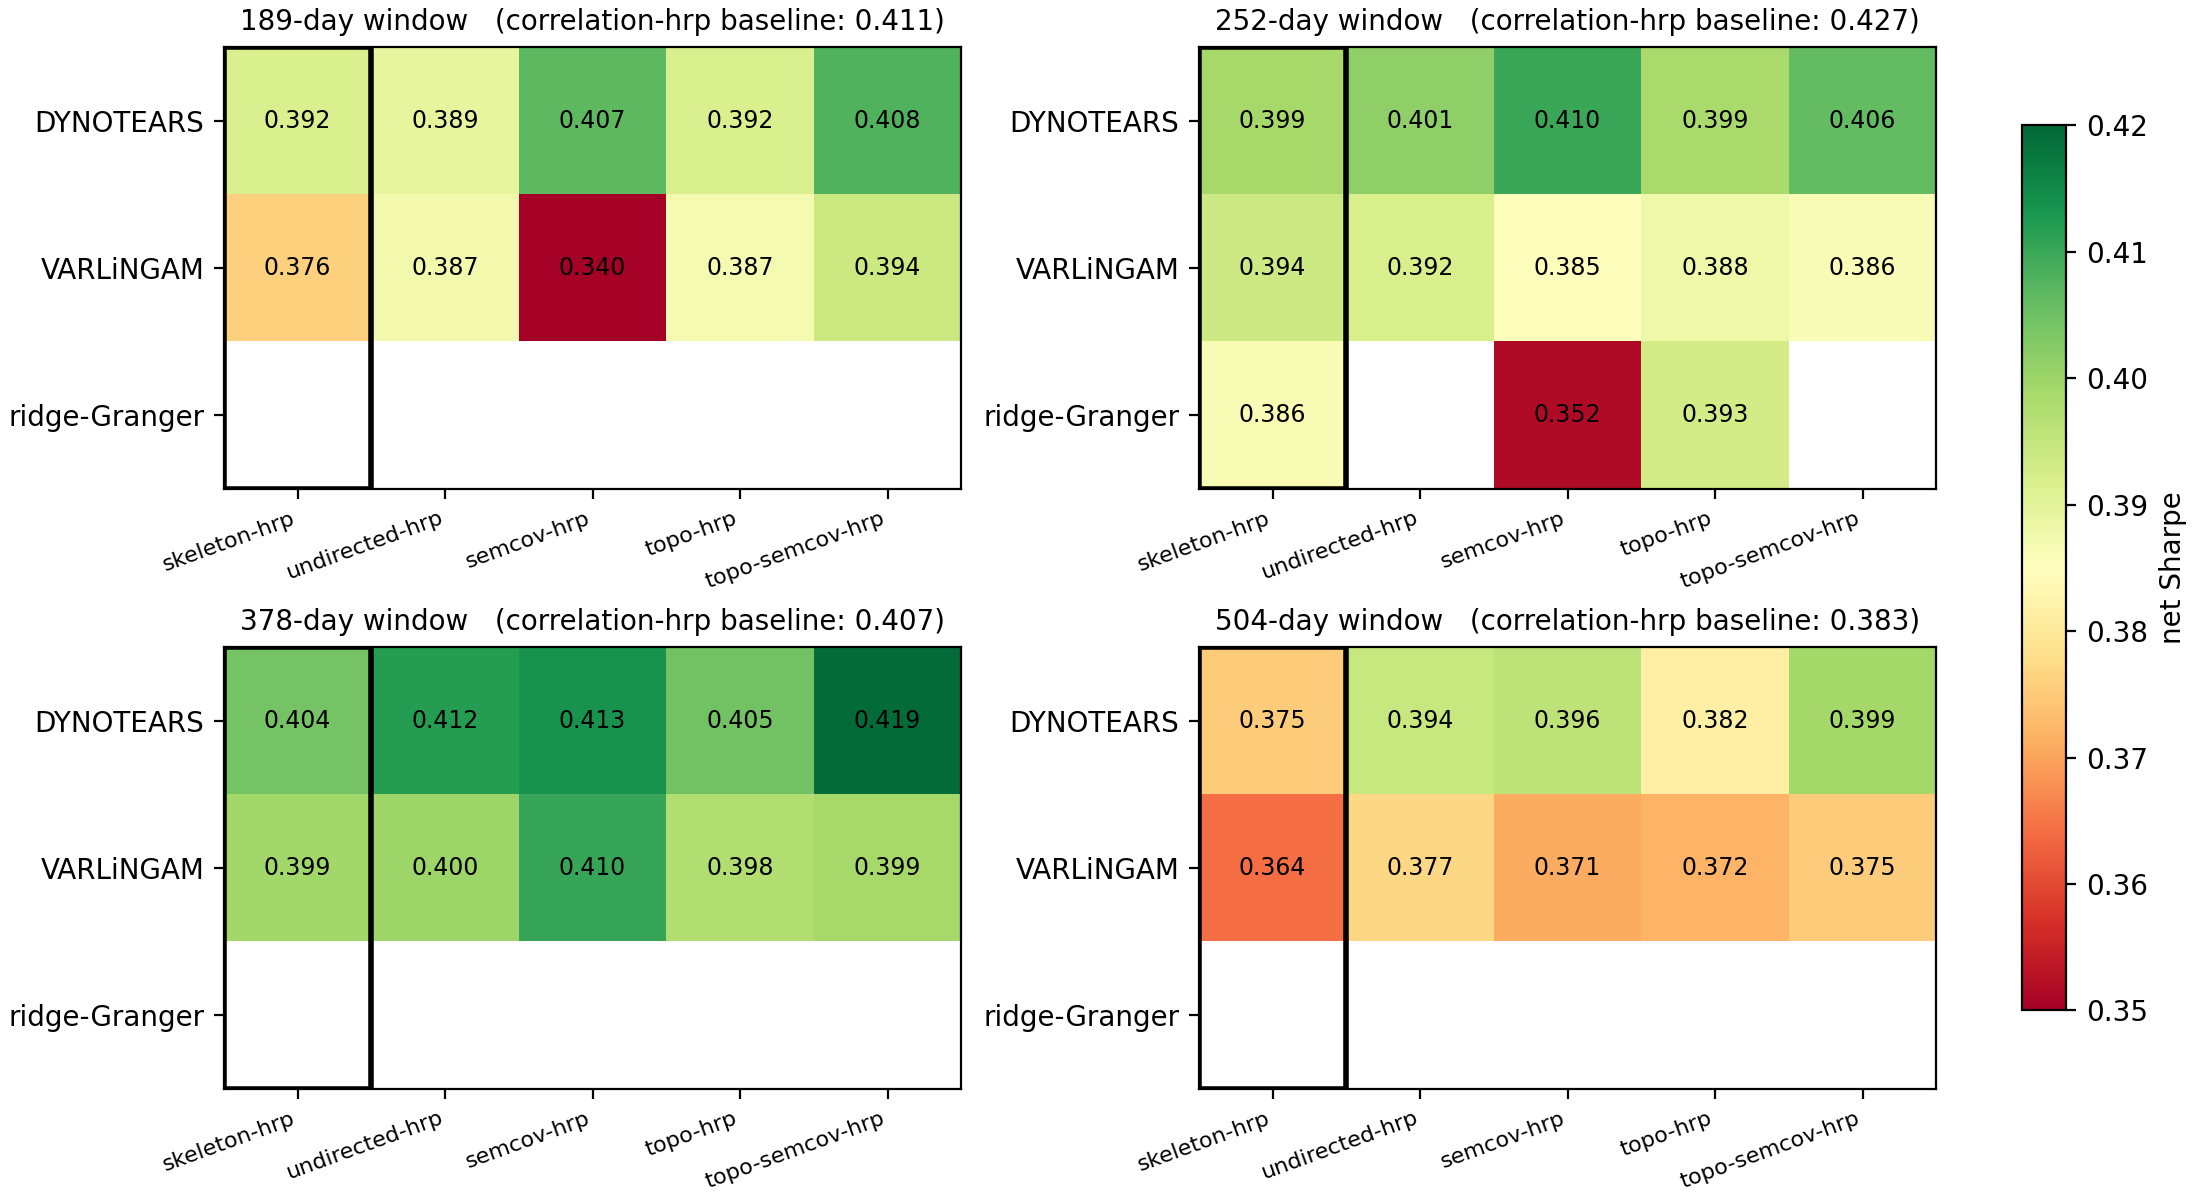
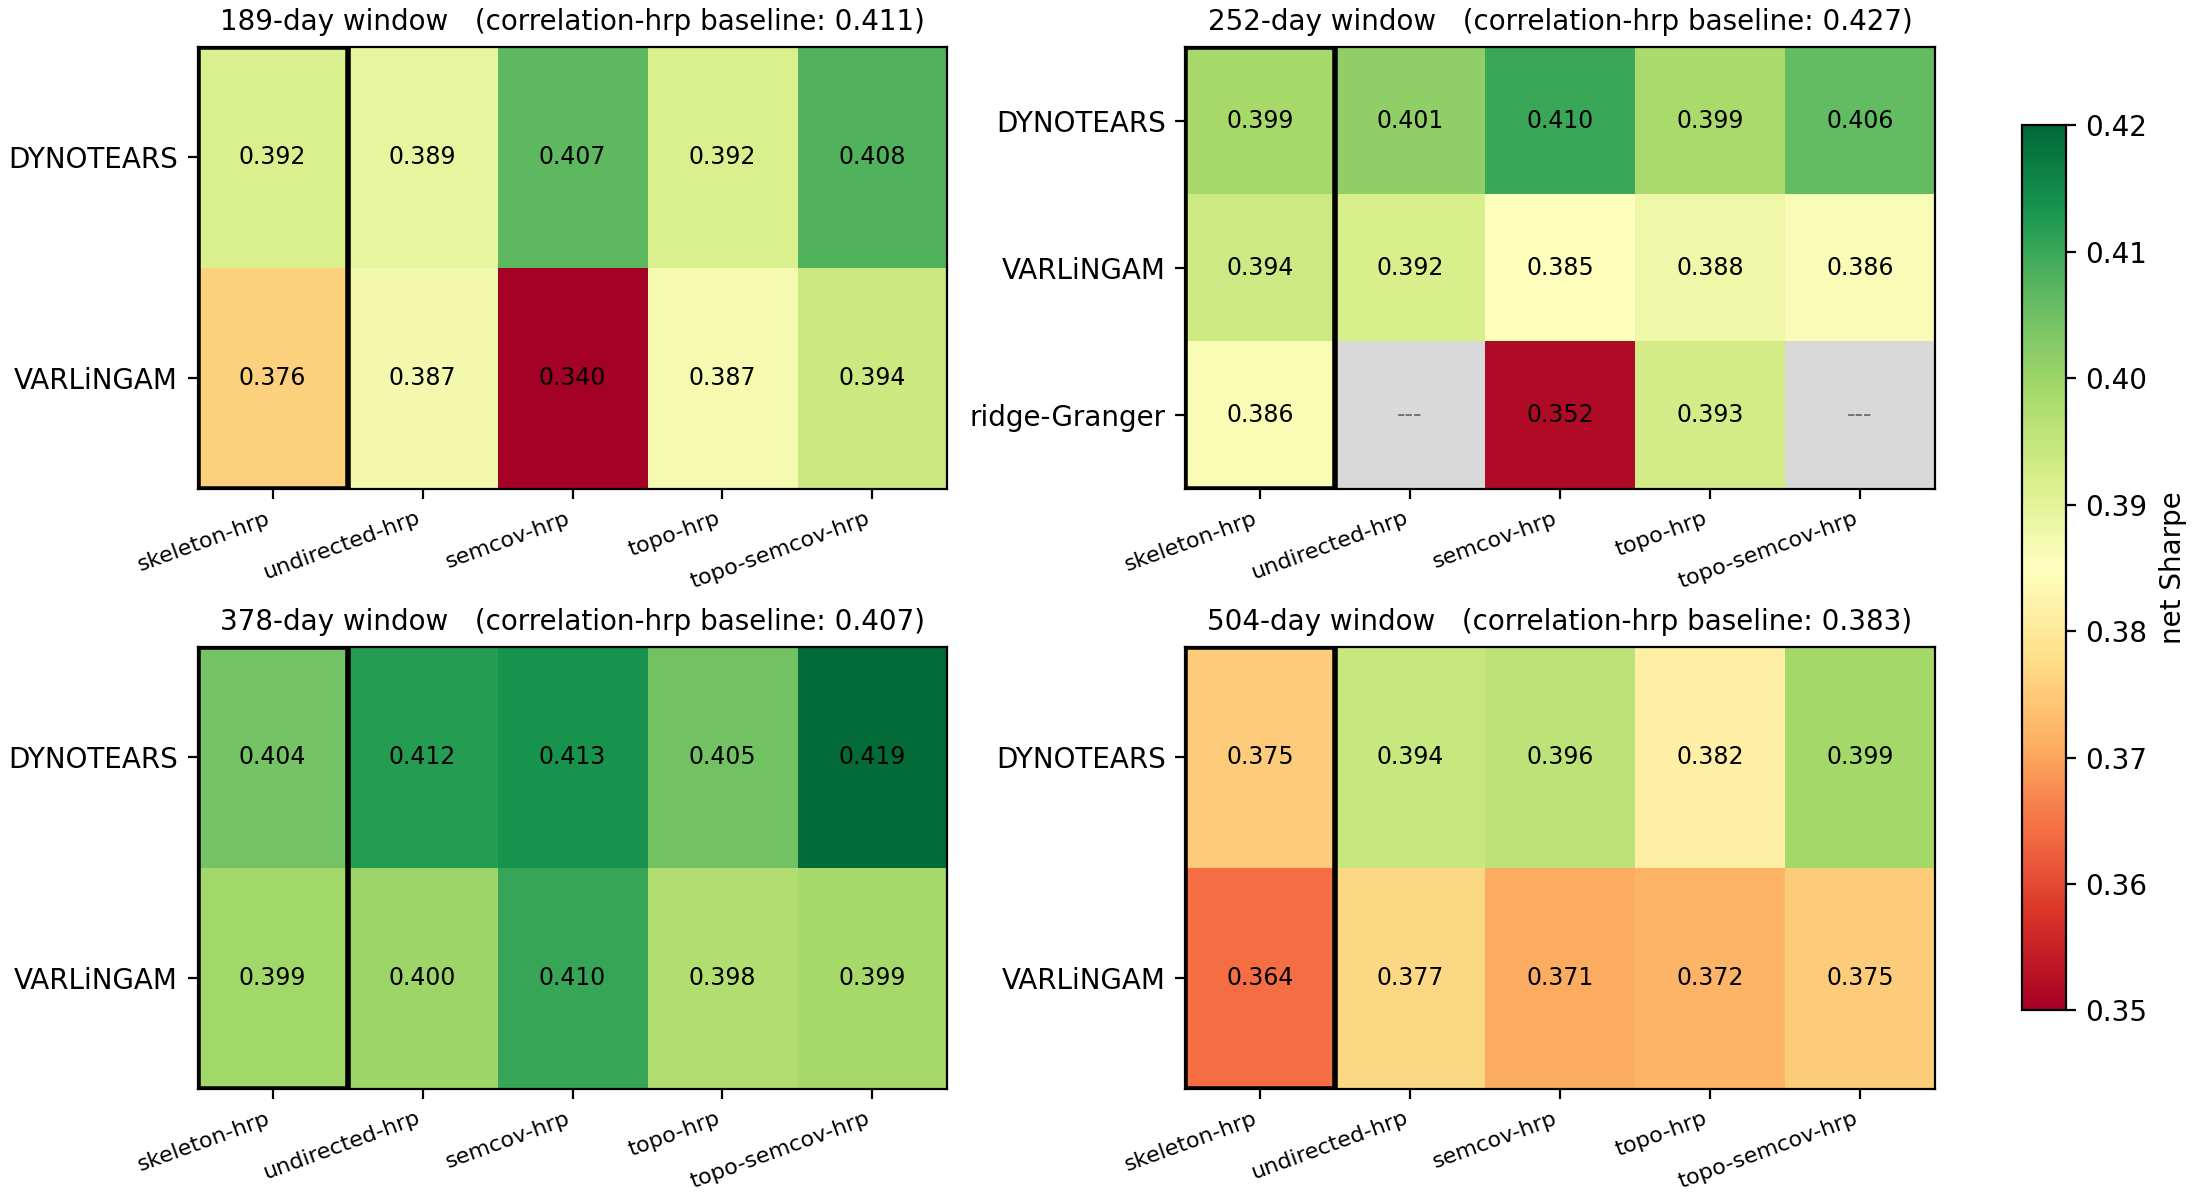
docs(figures): mark the out-of-scope heatmap cells, and rework the gradient panel
The heatmap now drops the rows a window did not run, and greys the
remaining empty cells with a "---" so they read as outside a control's
allocator scope rather than as a missing result. The ridge-Granger
control runs at 252 days only, so it keeps a row in that panel alone.

The window-gradient figure moves off the shared window palette onto a
yellow/purple pair that separates the two components in both panels, and
the stacked panel gains a diamond for the net of the two additions with
the value annotated beside it.

diff --git a/scripts/plot_phase_ii_figures.py b/scripts/plot_phase_ii_figures.py
@@ -35,6 +35,9 @@ C = {
     "w378": "#CC79A7",
     "w504": "#D55E00",
 }
+# High-contrast pair for the window-gradient figure (F7).
+F7_SKEL = "#E6A800"    # yellow
+F7_ORIENT = "#5D3A9B"  # purple
 # The reported family. D3 and D4 were run but are outside the crossing.
 ALLOC_ORDER = ["D0", "D0s", "D1", "D2", "D2s"]
 
@@ -77,19 +80,30 @@ def f1_heatmap(matrix: pd.DataFrame) -> None:
     for ax, w in zip(axes, ws):
         sub = m[m.window == w].pivot(index="method", columns="allocator", values="sharpe")
         sub = sub.reindex(index=methods, columns=ALLOC_ORDER)
+        # Only show the methods that were run at this window. The ridge-Granger
+        # control is run at 252 days only, so it gets a row in that panel alone.
+        rows = [x for x in methods if sub.loc[x].notna().any()]
+        sub = sub.loc[rows]
         vals = sub.to_numpy(dtype=float)
         im = ax.imshow(vals, cmap="RdYlGn", vmin=0.35, vmax=0.42, aspect="auto")
         ax.set_xticks(range(len(ALLOC_ORDER)), [DISPLAY[a] for a in ALLOC_ORDER],
                       fontsize=8, rotation=20, ha="right")
-        ax.set_yticks(range(len(methods)), [METHOD_LABEL[x] for x in methods])
+        ax.set_yticks(range(len(rows)), [METHOD_LABEL[x] for x in rows])
         for i in range(vals.shape[0]):
             for j in range(vals.shape[1]):
                 if np.isfinite(vals[i, j]):
                     ax.text(j, i, f"{vals[i, j]:.3f}", ha="center", va="center",
                             fontsize=8.5)
+                else:
+                    # Grey out the cells outside a control's allocator scope
+                    # (matches the "---" entries in the full matrix table).
+                    ax.add_patch(plt.Rectangle((j - 0.5, i - 0.5), 1, 1,
+                                               facecolor="#d9d9d9", edgecolor="none"))
+                    ax.text(j, i, "---", ha="center", va="center", fontsize=8.5,
+                            color="#707070")
         # Draw a box around the D0 column (the symmetrised control).
         j0 = ALLOC_ORDER.index("D0")
-        ax.add_patch(plt.Rectangle((j0 - 0.5, -0.5), 1, len(methods), fill=False,
+        ax.add_patch(plt.Rectangle((j0 - 0.5, -0.5), 1, len(rows), fill=False,
                                    edgecolor="black", lw=2))
         corr = matrix[(matrix.method == "phase_i") & (matrix.allocator == "CORR-HRP")
                       & (matrix.window == w)].sharpe
@@ -302,8 +316,8 @@ def f7_window_gradient(contrasts: pd.DataFrame) -> None:
     fig, (ax, axr) = plt.subplots(1, 2, figsize=(10.5, 3.9),
                                   constrained_layout=True)
     for (w, d, lo, hi, _), label, color, marker in (
-            (skel, "skeleton  (skeleton-hrp − correlation-hrp)", C["D0"], "o"),
-            (orient, "orientation  (semcov-hrp − skeleton-hrp)", C["D1"], "s")):
+            (skel, "skeleton  (skeleton-hrp − correlation-hrp)", F7_SKEL, "o"),
+            (orient, "orientation  (semcov-hrp − skeleton-hrp)", F7_ORIENT, "s")):
         ax.errorbar(w, d, yerr=[d - lo, hi - d], fmt=f"-{marker}", ms=6,
                     capsize=3, lw=1.6, color=color, label=label)
     if len(orient_var[0]):
@@ -317,17 +331,21 @@ def f7_window_gradient(contrasts: pd.DataFrame) -> None:
 
     # The right panel stacks the 2 additions, which is the split of the total gain.
     wsx = np.arange(len(skel[0]))
-    width = 0.55
-    axr.bar(wsx, skel[1], width, color=C["D0"], label="skeleton")
+    width = 0.45
+    axr.bar(wsx, skel[1], width, color=F7_SKEL, label="skeleton")
     # Negative components extend below their own base.
     base = np.where(np.sign(skel[1]) == np.sign(orient[1]), skel[1], 0.0)
-    axr.bar(wsx, orient[1], width, bottom=base, color=C["D1"],
+    axr.bar(wsx, orient[1], width, bottom=base, color=F7_ORIENT,
             label="orientation")
+    # The diamond marks the net of the 2 additions (semcov-hrp − correlation-hrp).
     total = skel[1] + orient[1]
+    axr.plot(wsx, total, "D", ms=6, color="black", mec="white", mew=0.8,
+             ls="none", label="net", zorder=5)
     for x, t in zip(wsx, total):
-        axr.annotate(f"total {t:+.3f}", (x, max(t, 0) + 0.0015), ha="center",
-                     fontsize=8)
+        axr.annotate(f"{t:+.3f}", (x + width / 2 + 0.05, t), ha="left",
+                     va="center", fontsize=8)
     axr.margins(y=0.15)
+    axr.set_xlim(-0.5, len(wsx) - 1 + 0.72)
     axr.axhline(0, color="grey", lw=1)
     axr.set_xticks(wsx, [f"{int(x)} d" for x in skel[0]])
     axr.set_ylabel("ΔSharpe over correlation-hrp")
